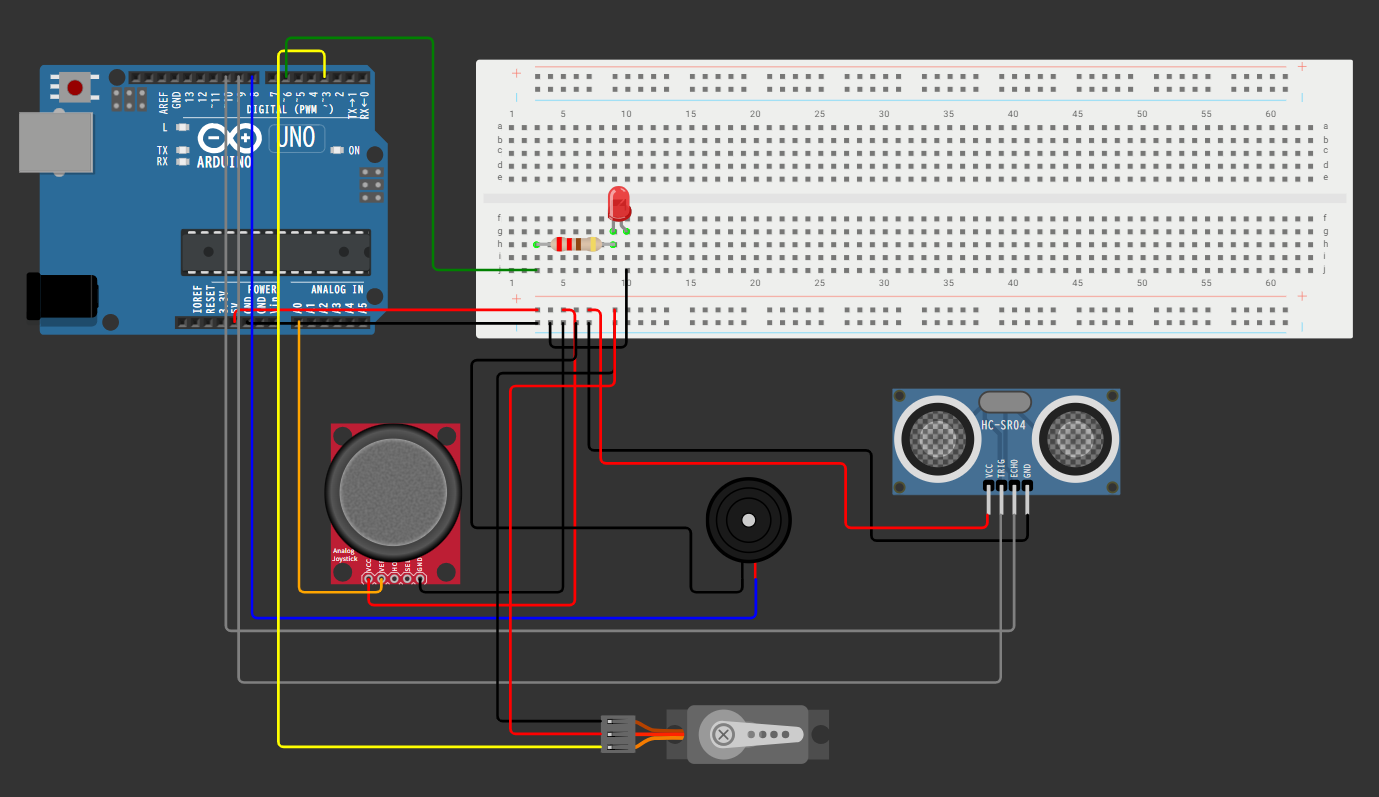
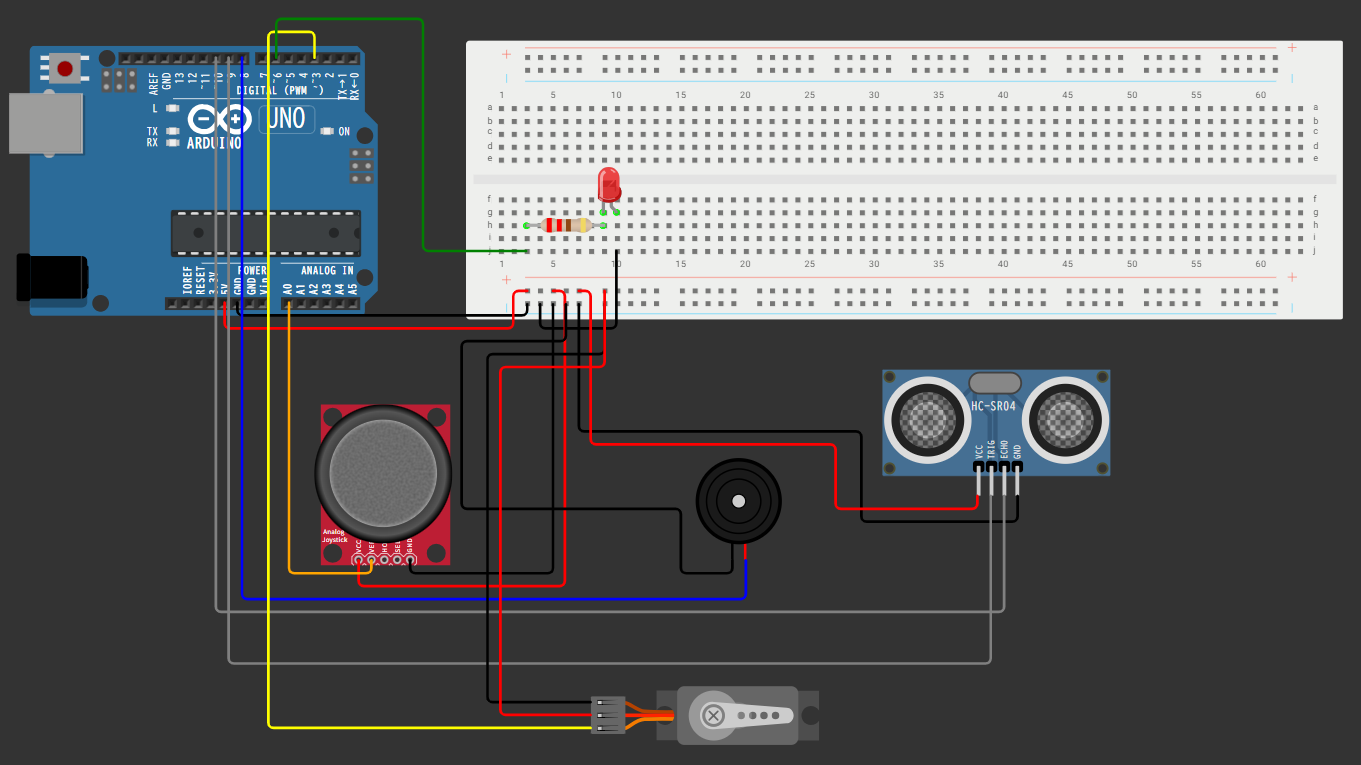
基本設計と回路図追加2

Changed region(s): [[0.0, 0.0, 0.9875, 0.9922]]

diff --git a/members/Thutakoko-Maung-TP/docs/basic_design.md b/members/Thutakoko-Maung-TP/docs/basic_design.md
@@ -25,8 +25,8 @@
 | 一言説明（何ができるガジェットか） | 物の距離をはかり、近くに物があればアラートを出す装置 |
 | 使用する共通部品（グループ共通） | ジョイスティック |
 | 追加部品（個人・主なもの） | SG90 サーボモーター / HC‑SR04 超音波センサー / アクティブブザー/LED |
-| 必須機能の数（3-1の件数） | 　ジョイスティックの動きに合わせてサーボモーターを回すことができる / 超音波センサーで距離をはかることができる / 近くに物があるとLEDとブザーでアラートを出すことができる |
-| 追加機能の数（3-2の件数） | 　ジョイスティックを使わずに自動で左右にスキャンできる件 / LCDやOLEDに距離を表示できる / 距離によってブザーの音を変えることができる |
+| 必須機能の数（3-1の件数） | 　3件 |
+| 追加機能の数（3-2の件数） | 　3件 |
 
 ### English :
 | Item | Copied from requirements.md |
@@ -35,8 +35,8 @@
 | One‑sentence description (What the gadget does) | Measures the distance to objects and triggers an alert when something is close |
 | Common parts used (shared by group) | Joystick |
 | Additional parts (individual / main components) | SG90 Servo Motor / HC‑SR04 Ultrasonic Sensor / Active Buzzer / LED |
-| Number of required functions (from Section 3‑1) | Rotate the servo according to joystick movement / Measure distance with ultrasonic sensor / Trigger LED & buzzer alert when an object is near |
-| Number of additional functions (from Section 3‑2) | Automatic left‑right scanning without joystick / Display distance on LCD or OLED / Change buzzer sound depending on distance |
+| Number of required functions (from Section 3‑1) | 3 |
+| Number of additional functions (from Section 3‑2) | 3 |
 
 > [!IMPORTANT]
 > 要件定義書の「やらないこと（3-3）」に書いたことは、この設計書に登場させないこと。
@@ -54,18 +54,18 @@
 |:--|:--|
 | グループ共通部品（名称） | ジョイスティック |
 | 共通部品が担う役割 | サーボの角度を操作するため |
-| 接続するArduinoピン（予定） | GND,5V,A0,A1,D2 |
+| 接続するArduinoピン（予定） | A0 |
 | 個人の設計と共通部品が協調する箇所 | ジョイスティックを左に倒すと、サーボが左に回転し、超音波センサーがその方向をスキャンする。 |
-| グループ内で統一すべき仕様 | （例：共通部品のピン番号・閾値の単位） |
+| グループ内で統一すべき仕様 | A0,A1,D2,512 ± 50 |
 
 ### English :
 | Item | Content |
 | --- | --- |
 | Common group component (name) | Joystick |
 | Role of the common component | To control the servo angle |
-| Arduino pins to be connected (planned) | GND, 5V, A0, A1, D2 |
+| Arduino pins to be connected (planned) | A0 |
 | Where the individual design cooperates with the common component | When the joystick is pushed to the left, the servo rotates left and the ultrasonic sensor scans in that direction. |
-| Specifications that must be unified within the group | (Examples: pin numbers for the common component, units for thresholds, etc.) |
+| Specifications that must be unified within the group | A0,A1,D2,512 ± 50 |
 
 > [!TIP]
 > グループメンバー全員が同じピン番号・同じ閾値の単位を使っているか、
@@ -88,8 +88,8 @@
 ```
 【入力】                 【Arduino UNO R3】            【出力】
 タクトスイッチ ─────→┐                         ┌──→ LED（赤・緑）
-超音波センサー ─────→┤   状態管理・判定処理    ├──→ パッシブブザー
-                      └─────────────────────────┘
+超音波センサー ─────→┤   状態管理・判定処理      ├──→ パッシブブザー
+                    └─────────────────────────┘
 ```
 
 
@@ -100,11 +100,10 @@
 ```
 
 【入力】                 【Arduino UNO R3】            【出力】
-ジョイスティック(X軸)   ─→┐                         ┌──→ SG90サーボモーター
+ジョイスティック(X軸)   ─→┐                         　　　　　　　　 ┌──→ SG90サーボモーター
 超音波センサー(HC-SR04)─→┤ ジョイスティック値→角度制御／距離計測・判定 ├──→ LED
-                        └─────────────────────────┘   └──→ アクティブブザー
-
-                                                     └──→ シリアルモニター（角度・距離）
+                        └───────────────────────────────────────┘ └──→ アクティブブザー
+                                                                  └──→ シリアルモニター（角度・距離）
                                                      
 ```
 
@@ -114,11 +113,10 @@
 
 [Input]                     [Arduino UNO R3]                       [Output]
 Joystick (X‑axis)     ─→┐                                      ┌──→ SG90 Servo Motor
-Ultrasonic Sensor     ─→┤  Joystick value → angle control       │
-(HC‑SR04)                │  Distance measurement → judgment      ├──→ LED
+Ultrasonic Sensor     ─→┤  Joystick value → angle control      │
+(HC‑SR04)               │  Distance measurement → judgment     ├──→ LED
                         └──────────────────────────────────────┘
                                                                └──→ Active Buzzer
-
                                                                └──→ Serial Monitor (angle / distance)
 
 ```
@@ -489,14 +487,11 @@ Ultrasonic Sensor     ─→┤  Joystick value → angle control       │
 
 | No | 指摘内容 | 指摘者 | 対応 |
 |:---|:---|:---|:---|
-| 1 |  |  |  |
-| 2 |  |  |  |
-| 3 |  |  |  |
+| 1 | この二日間ではできないかなと思って辞めた機能ありますか。 | マウン | 今回は見送り、後日追加機能として検討する  |
 
 ### 8-2. レビューを受けて変更した点
 
--
--
+- ありません。
 
 ---
 